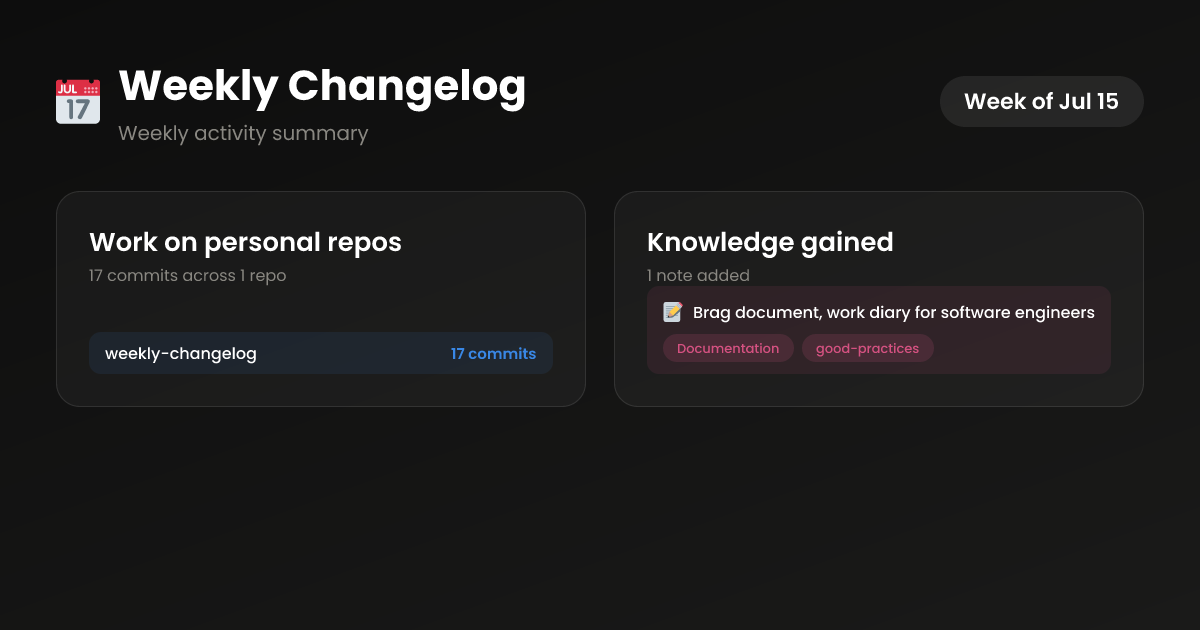
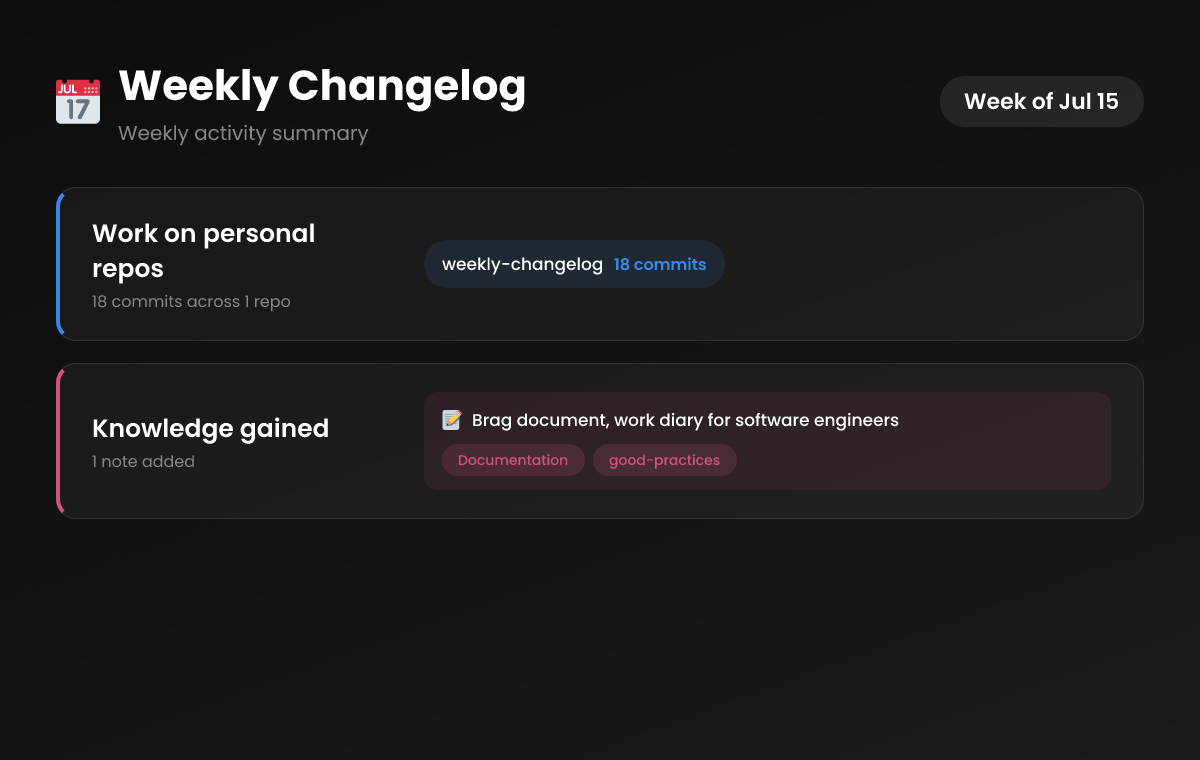
feat: made card larger for better readabily

diff --git a/src/ui/card/renderCard.ts b/src/ui/card/renderCard.ts
@@ -25,7 +25,7 @@ async function loadAdditionalAsset(languageCode: string, segment: string) {
   return []
 }
 
-const MAX_REPOS_SHOWN = 3
+const MAX_REPOS_SHOWN = 4
 const MAX_NOTES_SHOWN = 2
 
 function hexToRgba(hex: string, alpha: number): string {
@@ -43,14 +43,14 @@ function statItem(theme: CardTheme, value: string | number, label: string) {
     props: {
       style: { display: 'flex', flexDirection: 'column' },
       children: [
-        { type: 'div', props: { style: { fontSize: '30px', fontWeight: 700, color: theme.textPrimary }, children: String(value) } },
-        { type: 'div', props: { style: { fontSize: '15px', color: theme.textMuted, marginTop: '2px' }, children: label } }
+        { type: 'div', props: { style: { fontSize: '34px', fontWeight: 700, color: theme.textPrimary }, children: String(value) } },
+        { type: 'div', props: { style: { fontSize: '16px', color: theme.textMuted, marginTop: '2px' }, children: label } }
       ]
     }
   }
 }
 
-function repoRow(theme: CardTheme, accent: string, name: string, commits: number) {
+function repoChip(theme: CardTheme, accent: string, name: string, commits: number) {
   return {
     type: 'div',
     props: {
@@ -58,14 +58,14 @@ function repoRow(theme: CardTheme, accent: string, name: string, commits: number
         display: 'flex',
         flexDirection: 'row',
         alignItems: 'center',
-        justifyContent: 'space-between',
-        padding: '10px 16px',
-        borderRadius: '12px',
-        backgroundColor: hexToRgba(accent, 0.1),
+        gap: '10px',
+        padding: '12px 18px',
+        borderRadius: '999px',
+        backgroundColor: hexToRgba(accent, 0.12),
       },
       children: [
-        { type: 'div', props: { style: { fontSize: '16px', fontWeight: 500, color: theme.textPrimary }, children: name } },
-        { type: 'div', props: { style: { fontSize: '15px', fontWeight: 600, color: accent }, children: `${commits} commit${commits === 1 ? '' : 's'}` } }
+        { type: 'div', props: { style: { fontSize: '17px', fontWeight: 500, color: theme.textPrimary }, children: name } },
+        { type: 'div', props: { style: { fontSize: '16px', fontWeight: 600, color: accent }, children: `${commits} commit${commits === 1 ? '' : 's'}` } }
       ]
     }
   }
@@ -75,7 +75,7 @@ function moreIndicator(theme: CardTheme, count: number, label: string) {
   return {
     type: 'div',
     props: {
-      style: { display: 'flex', fontSize: '14px', fontWeight: 500, color: theme.textMuted, padding: '2px 4px' },
+      style: { display: 'flex', alignItems: 'center', fontSize: '16px', fontWeight: 500, color: theme.textMuted, padding: '12px 6px' },
       children: `+${count} more ${label}${count === 1 ? '' : 's'}`
     }
   }
@@ -84,7 +84,7 @@ function moreIndicator(theme: CardTheme, count: number, label: string) {
 function tagPill(accent: string, text: string, size: 'md' | 'sm' = 'md') {
   const sizes = {
     md: { fontSize: '16px', padding: '8px 18px' },
-    sm: { fontSize: '13px', padding: '5px 14px' },
+    sm: { fontSize: '14px', padding: '6px 16px' },
   }
   return {
     type: 'div',
@@ -109,9 +109,9 @@ function noteRow(theme: CardTheme, accent: string, note: { emoji: string; title:
       style: {
         display: 'flex',
         flexDirection: 'column',
-        gap: '8px',
-        padding: '12px 16px',
-        borderRadius: '12px',
+        gap: '10px',
+        padding: '14px 18px',
+        borderRadius: '14px',
         backgroundColor: hexToRgba(accent, 0.1),
       },
       children: [
@@ -121,7 +121,7 @@ function noteRow(theme: CardTheme, accent: string, note: { emoji: string; title:
             style: { display: 'flex', flexDirection: 'row', alignItems: 'center', gap: '10px' },
             children: [
               { type: 'div', props: { style: { display: 'flex', fontSize: '20px' }, children: note.emoji } },
-              { type: 'div', props: { style: { fontSize: '16px', fontWeight: 500, color: theme.textPrimary }, children: note.title } }
+              { type: 'div', props: { style: { fontSize: '17px', fontWeight: 500, color: theme.textPrimary }, children: note.title } }
             ]
           }
         },
@@ -137,51 +137,70 @@ function noteRow(theme: CardTheme, accent: string, note: { emoji: string; title:
   }
 }
 
-function sectionCard(theme: CardTheme, section: CardSection) {
+function sectionBar(theme: CardTheme, section: CardSection) {
   return {
     type: 'div',
     props: {
       style: {
         display: 'flex',
-        flexDirection: 'column',
-        flex: 1,
+        flexDirection: 'row',
+        alignItems: 'center',
+        gap: '32px',
+        width: '100%',
         overflow: 'hidden',
         backgroundColor: theme.cardBg,
         border: `1px solid ${theme.cardBorder}`,
-        borderRadius: '24px',
-        padding: '32px',
+        borderLeft: `4px solid ${section.accent}`,
+        borderRadius: '20px',
+        padding: '28px 32px',
       },
       children: [
-        { type: 'div', props: { style: { fontSize: '26px', fontWeight: 600, color: theme.textPrimary }, children: section.title } },
-        { type: 'div', props: { style: { fontSize: '16px', color: theme.textMuted, marginTop: '4px' }, children: section.subtitle } },
-        section.repos && {
+        {
           type: 'div',
           props: {
-            style: { display: 'flex', flexDirection: 'column', gap: '8px', marginTop: 'auto' },
+            style: { display: 'flex', flexDirection: 'column', width: '300px', flexShrink: 0 },
             children: [
-              ...section.repos.slice(0, MAX_REPOS_SHOWN).map(repo => repoRow(theme, section.accent, repo.name, repo.commits)),
-              section.repos.length > MAX_REPOS_SHOWN && moreIndicator(theme, section.repos.length - MAX_REPOS_SHOWN, 'repo')
-            ].filter(Boolean)
+              { type: 'div', props: { style: { fontSize: '25px', fontWeight: 600, color: theme.textPrimary }, children: section.title } },
+              { type: 'div', props: { style: { fontSize: '16px', color: theme.textMuted, marginTop: '4px' }, children: section.subtitle } }
+            ]
           }
         },
-        section.stats && {
+        {
           type: 'div',
           props: {
-            style: { display: 'flex', flexDirection: 'row', gap: '32px', marginTop: 'auto' },
-            children: section.stats.map(stat => statItem(theme, stat.value, stat.label))
-          }
-        },
-        section.notes && {
-          type: 'div',
-          props: {
-            style: { display: 'flex', flexDirection: 'column', gap: '10px', marginTop: 'auto' },
+            style: { display: 'flex', flex: 1, minWidth: 0 },
             children: [
-              ...section.notes.slice(0, MAX_NOTES_SHOWN).map(note => noteRow(theme, section.accent, note)),
-              section.notes.length > MAX_NOTES_SHOWN && moreIndicator(theme, section.notes.length - MAX_NOTES_SHOWN, 'note')
+              section.repos && {
+                type: 'div',
+                props: {
+                  style: { display: 'flex', flexDirection: 'row', flexWrap: 'wrap', gap: '10px' },
+                  children: [
+                    ...section.repos.slice(0, MAX_REPOS_SHOWN).map(repo => repoChip(theme, section.accent, repo.name, repo.commits)),
+                    section.repos.length > MAX_REPOS_SHOWN && moreIndicator(theme, section.repos.length - MAX_REPOS_SHOWN, 'repo')
+                  ].filter(Boolean)
+                }
+              },
+              section.stats && {
+                type: 'div',
+                props: {
+                  style: { display: 'flex', flexDirection: 'row', gap: '40px' },
+                  children: section.stats.map(stat => statItem(theme, stat.value, stat.label))
+                }
+              },
+              section.notes && {
+                type: 'div',
+                props: {
+                  style: { display: 'flex', flexDirection: 'column', gap: '10px', width: '100%' },
+                  children: [
+                    ...section.notes.slice(0, MAX_NOTES_SHOWN).map(note => noteRow(theme, section.accent, note)),
+                    section.notes.length > MAX_NOTES_SHOWN && moreIndicator(theme, section.notes.length - MAX_NOTES_SHOWN, 'note')
+                  ].filter(Boolean)
+                }
+              }
             ].filter(Boolean)
           }
         }
-      ].filter(Boolean)
+      ]
     }
   }
 }
@@ -249,8 +268,8 @@ export async function renderCard(data: CardData, theme: CardTheme = defaultTheme
                 {
                   type: 'div',
                   props: {
-                    style: { display: 'flex', flexDirection: 'row', gap: '28px', flex: 1, marginTop: '44px', flexWrap: 'wrap' },
-                    children: data.sections.map(section => sectionCard(theme, section))
+                    style: { display: 'flex', flexDirection: 'column', gap: '22px', flex: 1, marginTop: '40px', justifyContent: 'flex-start' },
+                    children: data.sections.map(section => sectionBar(theme, section))
                   }
                 }
               ]

diff --git a/docs/index.html b/docs/index.html
@@ -157,12 +157,12 @@
       <article class="entry-card accent-blue">
         <header class="entry-head">
           <a class="entry-title" href="https://github.com/jormiquis/weekly-changelog" target="_blank" rel="noopener">weekly-changelog</a>
-          <span class="pill">17 commits</span>
+          <span class="pill">18 commits</span>
         </header>
         <ul class="commits">
-          <li>feat: created dashboard</li><li>feat: created dashboard</li><li>feat: added index html</li><li>chore: disable Jekyll for GitHub Pages</li><li>feat: added card component</li><li>feat: added rule to gh mapper for just capturing pushes for owner repos</li><li>feat: added mapping for cretion event</li><li>feat: added gh mappers</li><li>fixed commit messages retrieving</li><li>feat added some new property to notion payload mapping</li><li>feat: added notion mapper</li><li>feat: unify notion and gh flows on main.ts</li><li>feat: used private api and mapped useful props from gh response</li><li>added test for new payload</li><li>added test for new payload</li><li>feat: add &#39;type&#39; field to enriched push event data and update tests</li><li>added commits management on gh push event</li>
+          <li>feat: re-styles visual components</li><li>feat: created dashboard</li><li>feat: created dashboard</li><li>feat: added index html</li><li>chore: disable Jekyll for GitHub Pages</li><li>feat: added card component</li><li>feat: added rule to gh mapper for just capturing pushes for owner repos</li><li>feat: added mapping for cretion event</li><li>feat: added gh mappers</li><li>fixed commit messages retrieving</li><li>feat added some new property to notion payload mapping</li><li>feat: added notion mapper</li><li>feat: unify notion and gh flows on main.ts</li><li>feat: used private api and mapped useful props from gh response</li><li>added test for new payload</li><li>added test for new payload</li><li>feat: add &#39;type&#39; field to enriched push event data and update tests</li><li>added commits management on gh push event</li>
         </ul>
-        <a class="diff-link" href="https://github.com/jormiquis/weekly-changelog/compare/b0b50b8558da621205e80240edfebaacd7f7fa6e...05bcf350b919da300dfa34cb2fef6f3cca75d3cc.diff" target="_blank" rel="noopener">View diff &rarr;</a>
+        <a class="diff-link" href="https://github.com/jormiquis/weekly-changelog/compare/b0b50b8558da621205e80240edfebaacd7f7fa6e...94f32322f8865e7d67706c095907274d3ad201aa.diff" target="_blank" rel="noopener">View diff &rarr;</a>
       </article></div>
     </section>
     
@@ -181,7 +181,7 @@
     
   </div>
   <footer>
-    Generated Jul 15, 6:17 AM &middot; <a href="https://github.com/jormiquis/weekly-changelog">weekly-changelog</a>
+    Generated Jul 15, 6:54 AM &middot; <a href="https://github.com/jormiquis/weekly-changelog">weekly-changelog</a>
   </footer>
 </body>
 </html>

diff --git a/src/ui/card/CardTheme.ts b/src/ui/card/CardTheme.ts
@@ -12,7 +12,7 @@ export interface CardTheme {
 
 export const defaultTheme: CardTheme = {
   width: 1200,
-  height: 630,
+  height: 760,
   fontFamily: 'Poppins',
   background: 'linear-gradient(160deg, #0d0d0d 0%, #1a1a19 100%)',
   cardBg: 'rgba(255, 255, 255, 0.04)',
